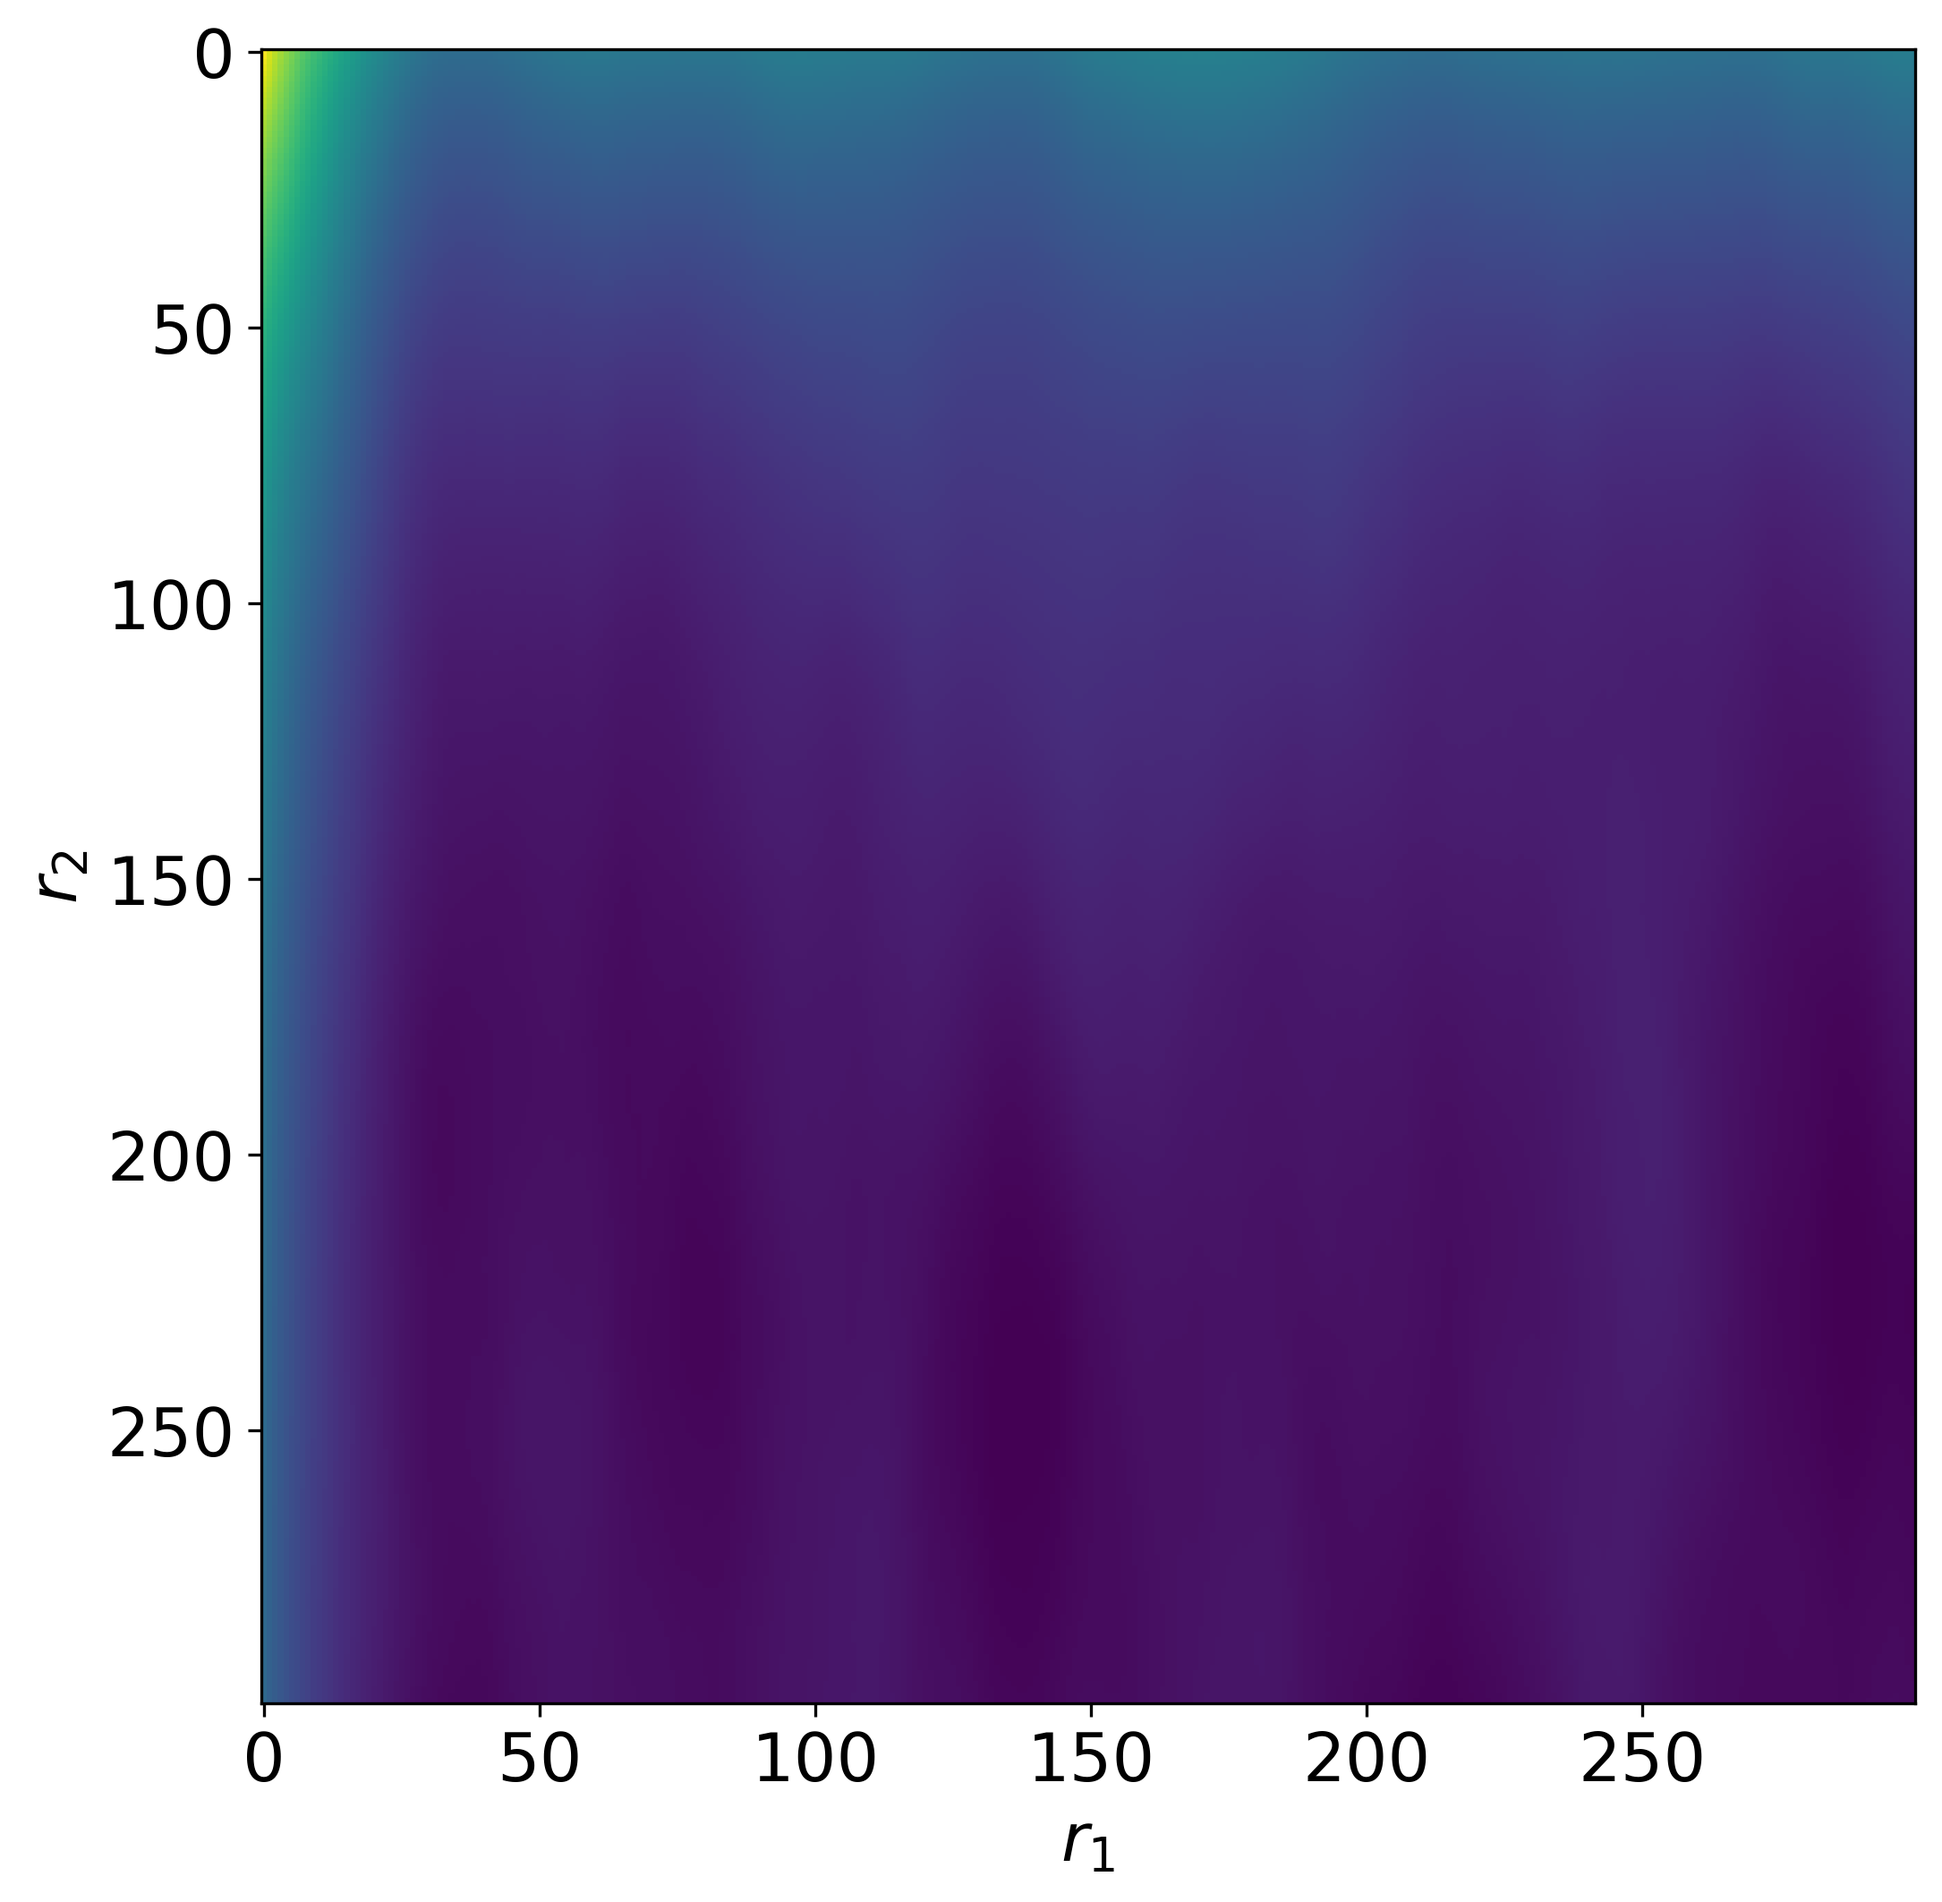
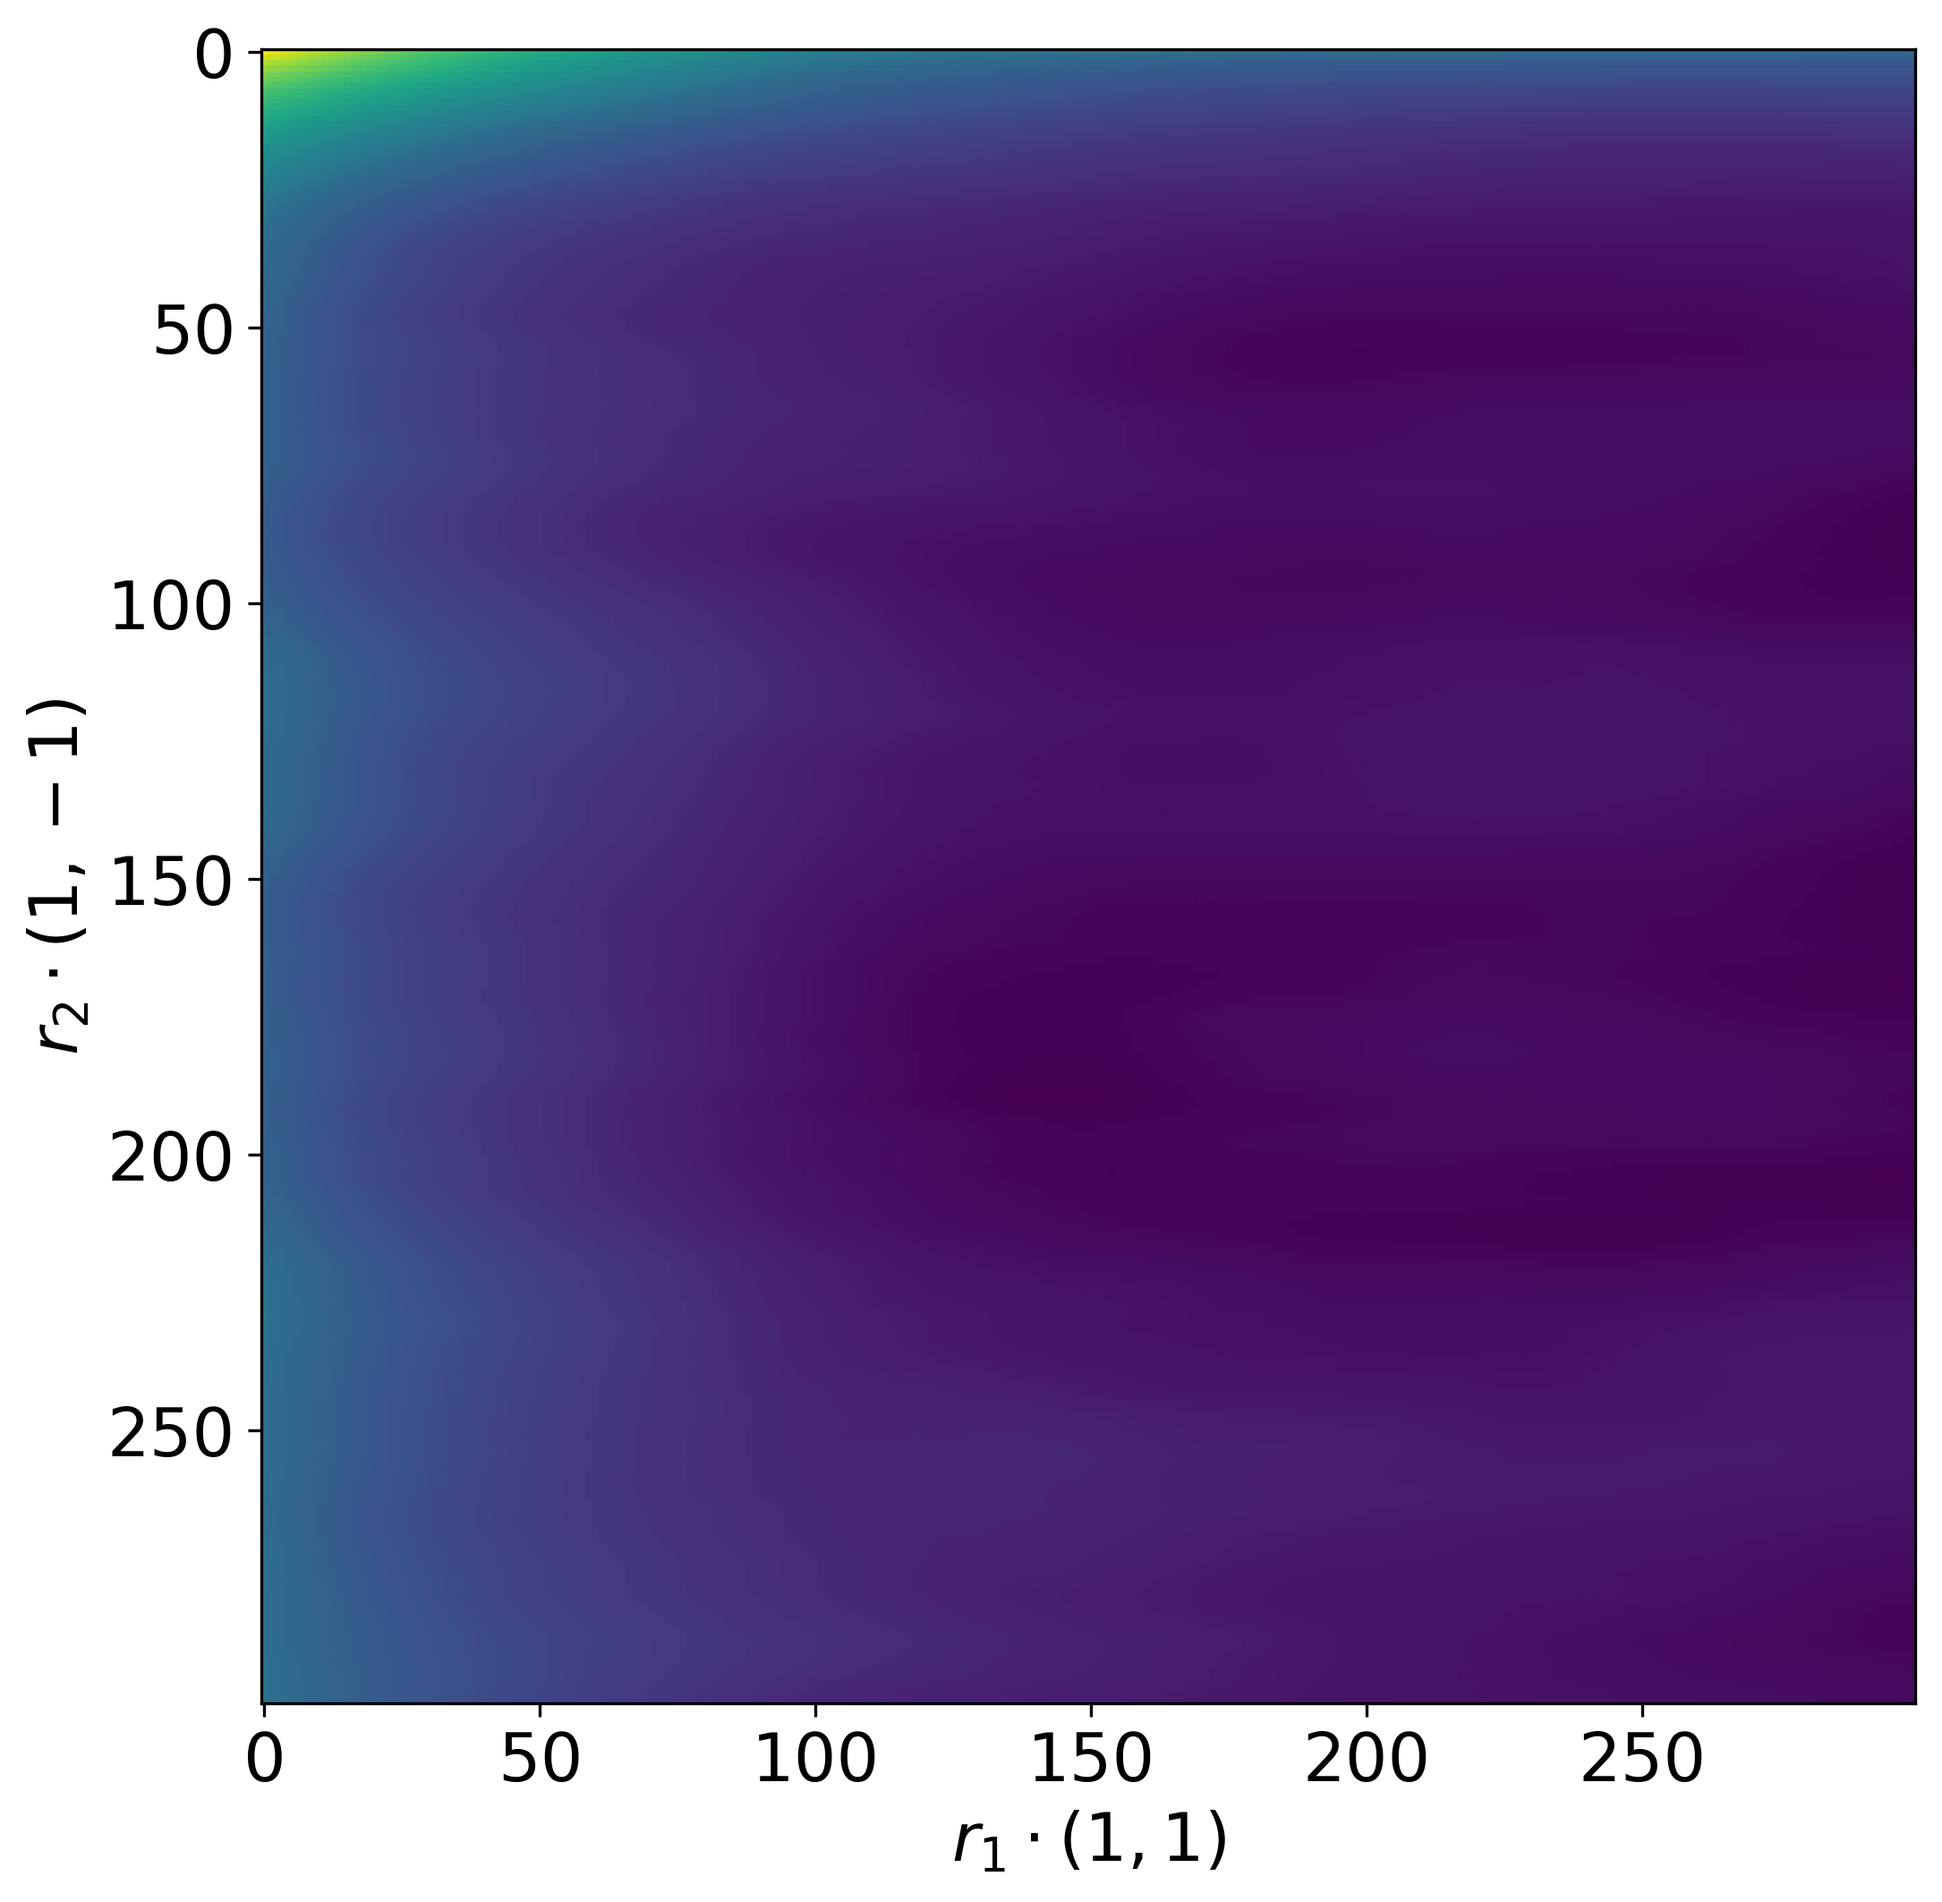
Replace pictures

diff --git a/paper.tex b/paper.tex
@@ -501,9 +501,9 @@ made a rest of the algorithm cache-friendly by avoiding random memory access.
   \hfill
   \includegraphics[width=0.3\linewidth]{images/aniso-s3-avg.png}
   \caption[]{$S_3$ function for anisotropic media (on the left) elongated along
-    the axis $Y$. Anisotropicity of the medium can be seen on a heatmap of $S_3$
-    function (in the middle). An average of 10 $S_3$ evaluations of the medium
-    rotated by a random angle is on the right.}
+    the vector $(1, 1)$. Anisotropicity of the medium can be seen on a heatmap
+    of $S_3$ function (in the middle). An average of 120 $S_3$ evaluations of
+    the medium rotated by a random angle is on the right.}
   \label{fig:aniso}
 \end{figure}
 
